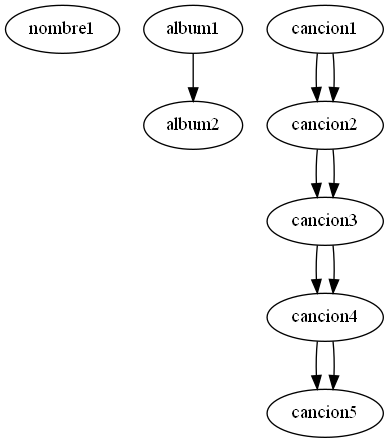
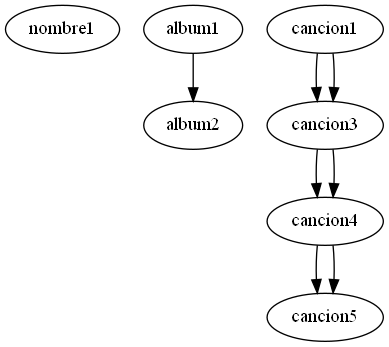
lectura del xml

diff --git a/main.py b/main.py
@@ -2,19 +2,68 @@ from artista import Lista_artistas
 from album import Lista_album
 from cancion import Lista_canciones
 lista = Lista_artistas()
-album = Lista_album()
-cancion = Lista_canciones()
 
-cancion.agregar_Cancion("cancion1","ruta1")
-cancion.agregar_Cancion("cancion2","ruta2")
-cancion.agregar_Cancion("cancion3","ruta3")
-cancion.agregar_Cancion("cancion4","ruta4")
-cancion.agregar_Cancion("cancion5","ruta5")
+cont = 1
+a = "artista"
+albumm = "album"
+cancionn = "cancion"
+imagen = "imagen"
+ruta = "ruta"
 
-album.agregar_Album("album1","imagen1",cancion)
-album.agregar_Album("album2","imagen2",cancion)
+if  lista.validar(a):
+    print("Encontro el artista")
+    if lista.validarAlbum(a, albumm):
+        print("Encontro el album")
+        lista.agregar_Artista_Existente_Album(a, albumm, cancionn, ruta)
+    else:
+        album = Lista_album()
+        cancion = Lista_canciones()
+        cancion.agregar_Cancion(cancionn, ruta)
+        lista.agregar_Artista_Existente(a, albumm, imagen, cancion)     
+else:
+    cancion = Lista_canciones()
+    cancion.agregar_Cancion(cancionn, ruta)
+    album = Lista_album()
+    album.agregar_Album(albumm, imagen, cancion)
+    lista.agregar_Artista(a, album)
+    
+cancionn = "cancion2"
+ruta = "ruta2"  
+if  lista.validar(a):
+    print("Encontro el artista")
+    if lista.validarAlbum(a, albumm):
+        print("Encontro el album")
+        lista.agregar_Artista_Existente_Album(a, albumm, cancionn, ruta)
+    else:
+        album = Lista_album()
+        cancion = Lista_canciones()
+        cancion.agregar_Cancion(cancionn, ruta)
+        lista.agregar_Artista_Existente(a, albumm, imagen, cancion)     
+else:
+    cancion = Lista_canciones()
+    cancion.agregar_Cancion(cancionn, ruta)
+    album = Lista_album()
+    album.agregar_Album(albumm, imagen, cancionn)
+    lista.agregar_Artista(a, album)
 
-lista.agregar_Artista("nombre1",album)
+albumm="album2"
+if  lista.validar(a):
+    print("Encontro el artista")
+    if lista.validarAlbum(a, albumm):
+        print("Encontro el album")
+        lista.agregar_Artista_Existente_Album(a, albumm, cancionn, ruta)
+    else:
+        album = Lista_album()
+        cancion = Lista_canciones()
+        cancion.agregar_Cancion(cancionn, ruta)
+        lista.agregar_Artista_Existente(a, albumm, imagen, cancion)     
+else:
+    cancion = Lista_canciones()
+    cancion.agregar_Cancion(cancionn, ruta)
+    album = Lista_album()
+    album.agregar_Album(albumm, imagen, cancionn)
+    lista.agregar_Artista(a, album)
+
+
+    
 lista.mostrar()
-grafo = lista.generar_grafo()
-grafo.render('lista_artistas', format='png', cleanup=True, view=True)

diff --git a/artista.py b/artista.py
@@ -21,6 +21,40 @@ class  Lista_artistas:
             self.fin.siguiente = nuevo
             self.fin=nuevo
             
+    def agregar_Artista_Existente(self, nombre, nombreAlbum, imagen, canciones):
+        actual = self.inicio
+        while actual:
+            if actual.nombre == nombre:
+                actual.album.agregar_Album(nombreAlbum, imagen,canciones)
+                return
+            actual = actual.siguiente
+                
+    def agregar_Artista_Existente_Album(self, nombre, nombreAlbum, cancion, ruta):
+        actual = self.inicio
+        while actual:
+            if actual.nombre == nombre:
+                actual.album.agregar_Album_Existente(nombreAlbum, cancion, ruta)
+                return
+            actual = actual.siguiente
+        
+    def validar(self, nombreA):
+        actual = self.inicio     
+        if self.inicio:
+            while actual:
+                if actual.nombre == nombreA:
+                    return True
+                actual = actual.siguiente
+                
+    def validarAlbum(self, nombreA,nombreAlbum ):
+        actual = self.inicio     
+        if self.inicio:
+            while actual:
+                if actual.nombre == nombreA:
+                    variable = actual.album.validar(nombreAlbum)
+                    return variable
+                actual = actual.siguiente
+                
+            
     def mostrar(self):
         actual = self.inicio
         while actual:
@@ -30,16 +64,21 @@ class  Lista_artistas:
             actual = actual.siguiente
             
     def generar_grafo(self):
-        dot = Digraph(comment='Lista de Artistas')
+        dot = Digraph(comment='Lista de Artistas', rankdir='LR')  # Ajusta la orientación según sea necesario
         actual_artista = self.inicio
+
         while actual_artista:
             dot.node(actual_artista.nombre)
+
             if actual_artista.siguiente:
                 dot.edge(actual_artista.nombre, actual_artista.siguiente.nombre)
+
             # Generar el grafo de álbumes y canciones para el artista actual
             if actual_artista.album:
                 dot.subgraph(actual_artista.album.generar_grafo())
+
             actual_artista = actual_artista.siguiente
+
         return dot
             
   

diff --git a/lecturaxml.py b/lecturaxml.py
@@ -1,0 +1,44 @@
+import tkinter as tk
+from tkinter import filedialog
+import xml.etree.ElementTree as ET
+from artista import Lista_artistas
+from album import Lista_album
+from cancion import Lista_canciones
+lista = Lista_artistas()
+def leer_xml(archivo):
+    try:
+        tree = ET.parse(archivo)
+        root = tree.getroot()
+        for cancion in root.findall('cancion'):
+            nombre = cancion.get('nombre')
+            artista = cancion.find('artista').text
+            album = cancion.find('album').text
+            imagen = cancion.find('imagen').text
+            ruta = cancion.find('ruta').text
+            
+            if  lista.validar(artista):
+                print("Encontro el artista")
+                if lista.validarAlbum(artista, album):
+                    print("Encontro el album")
+                    lista.agregar_Artista_Existente_Album(artista, album, nombre, ruta)
+                else:
+                    cancion2 = Lista_canciones()
+                    cancion2.agregar_Cancion(nombre, ruta)
+                    lista.agregar_Artista_Existente(artista, album, imagen, cancion2)
+            else:
+                cancion2 = Lista_canciones()
+                cancion2.agregar_Cancion(nombre, ruta)
+                album2 = Lista_album()
+                album2.agregar_Album(album, imagen, cancion2)
+                lista.agregar_Artista(artista, album2)
+
+    except ET.ParseError as e:
+        print(f'Error al analizar el archivo XML: {e}')
+        
+def seleccionar_archivo():
+    archivo = filedialog.askopenfilename(filetypes=[('Archivos XML', '*.xml')])
+    if archivo:
+        print(f'Se seleccionó el archivo: {archivo}')
+        leer_xml(archivo)
+seleccionar_archivo()
+lista.mostrar()

diff --git a/album.py b/album.py
@@ -22,6 +22,27 @@ class  Lista_album:
             self.fin.siguiente = nuevo
             self.fin=nuevo
             
+    def agregar_Album_Existente(self, nombre, cancion, ruta):
+        actual = self.inicio
+        while actual:
+            if actual.nombre == nombre:
+                actual.canciones.agregar_Cancion(cancion, ruta)
+                print("Cancion Agregada al album existente")
+                return
+            actual = actual.siguiente
+                
+        
+            
+    def validar(self, nombre):
+        actual = self.inicio
+        while actual:
+            if actual.nombre == nombre:
+                return True
+            actual = actual.siguiente
+        return False
+            
+    
+            
     def mostrar(self):
         actual = self.inicio
         while actual:
@@ -30,10 +51,11 @@ class  Lista_album:
             actual.canciones.mostrar()
             actual = actual.siguiente
             
+            
     def generar_grafo(self):
         dot = Digraph(comment='Lista de Álbumes')
-
         actual_album = self.inicio
+
         while actual_album:
             dot.node(actual_album.nombre)
 

diff --git a/cancion.py b/cancion.py
@@ -21,6 +21,14 @@ class  Lista_canciones:
             self.fin.siguiente = nuevo
             self.fin=nuevo
             
+    def validar(self, nombre):
+        actual = self.inicio
+        while actual:
+            if nombre == actual.nombre:
+                print("La cancion ya existe")
+                return True
+            actual = actual.siguiente
+            
     def mostrar(self,):
         actual = self.inicio
         while actual:
